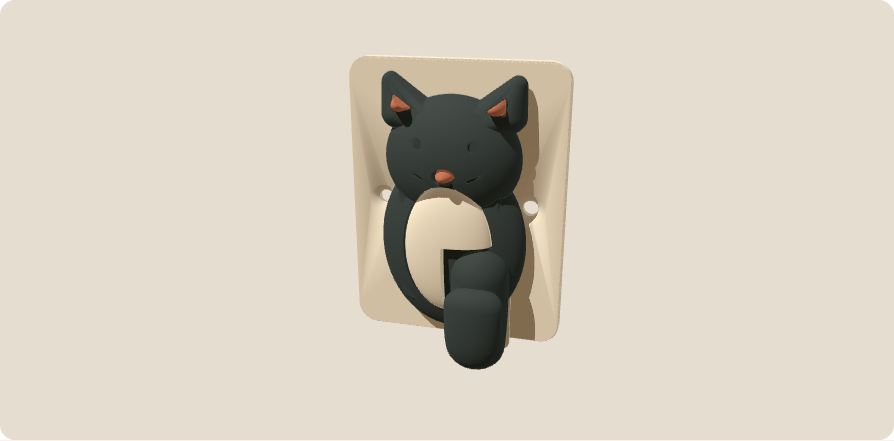
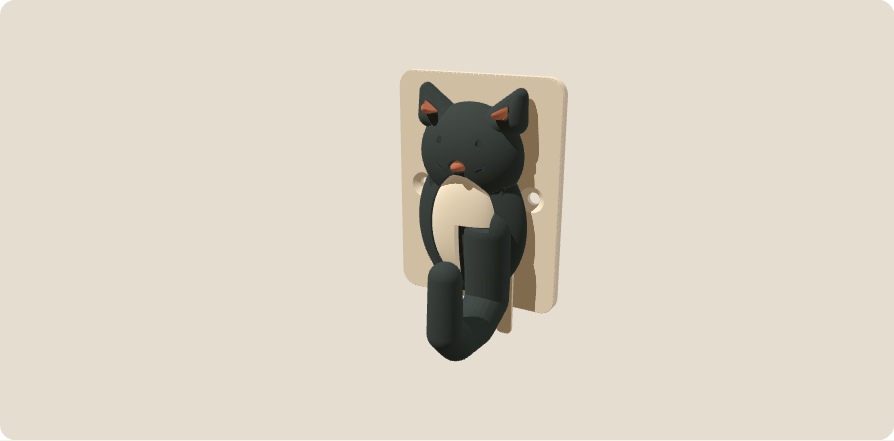
Make pet hooks usable with clear cradles, tapered tips and accessible releases

Changed region(s): [[0.3926, 0.1179, 0.6644, 0.8549]]

diff --git a/src/hooks/geometry.js b/src/hooks/geometry.js
@@ -10,7 +10,7 @@ export function generateHooks(module,input,resources={}){const lookup=resources.
  for(let index=0;index<drawings.length;index++){const{id,art,profile,scale,cx,cy}=drawings[index],x=(index-(drawings.length-1)/2)*pitch;
  // A full-depth spine connects the short hook root to both retaining shoulders.
  const ellipsoid=([x,y,rx,ry,z])=>own(M.sphere(1,64).scale([rx*scale,ry*scale,z]).translate([(x-cx)*scale,(y-cy)*scale,6.4]));const sculpture=art.mass?own(M.union([...art.mass.map(ellipsoid),...(art.massHulls||[]).map(points=>own(M.hull(points.map(ellipsoid))))])):own(relief(profile,6,3).translate([0,0,8]));let core=own(bevel(own(K.round(30,58,5)),5.6,1).translate([0,0,6.4]).add(sculpture));
- const hx=((art.hook.x||0)-cx)*scale,width=art.hook.width||20,reach=p.reach,points=Array.from({length:17},(_,i)=>{const t=i/16,u=1-t,y=u*u*u*-18+3*u*u*t*-44+3*u*t*t*-44+t*t*t*-24,z=u*u*u*12+3*u*u*t*12+3*u*t*t*(reach-5.5)+t*t*t*(reach-5.5),rad=9*(1-t)+5.5*t;return[hx,y,z,rad];}),balls=points.map(([bx,by,bz,rad])=>own(M.sphere(1,32).scale([width/2,rad,rad]).translate([bx,by,bz])));
+ const hx=((art.hook.x||0)-cx)*scale,width=art.hook.width||20,reach=p.reach,points=[[hx,-12,12,9],[hx,-37,12,8],[hx,-43,22,7.5],[hx,-43,reach-13,7],[hx,-37,reach-5.5,6],[hx,-18,reach-5.5,5.5]],balls=points.map(([bx,by,bz,rad],i)=>own(M.sphere(1,32).scale([width/2+(5.5-width/2)*i/(points.length-1),rad,rad]).translate([bx,by,bz])));
  core=own(core.add(own(M.union(balls.slice(1).map((b,i)=>own(M.hull([balls[i],b])))))));
  core=own(core.subtract(own(M.cube([500,500,106.4]).translate([-250,-250,-100]))));
  const hookKeepOut=own(C.square([width+3,100],true).translate([hx,-59]));
@@ -31,14 +31,14 @@ export function generateHooks(module,input,resources={}){const lookup=resources.
  if(p.layout==='rail'&&index>0)for(const y of[-22,22])plate=own(plate.subtract(own(K.round(12+2*p.clearance,12+2*p.clearance,2).extrude(2.3).translate([-moduleWidth/2,y,-.1]))));
  const screwXs=[-moduleWidth/2+10,moduleWidth/2-10];for(const sx of screwXs){plate=own(plate.subtract(own(C.circle(2.3,48).extrude(6).translate([sx,0,-1]))).subtract(own(M.cylinder(2,2.3,4.6,48).translate([sx,0,2]))));}
  if(p.mount==='pads')for(const sx of[-moduleWidth/4,moduleWidth/4])plate=own(plate.subtract(own(K.round(Math.min(22,moduleWidth/2-14),Math.min(54,moduleHeight-14),3).extrude(1).translate([sx,0,-.2]))));
- const rail=cleat(),leaf=own(K.round(8,29,2).extrude(1.2).translate([13.5,-30,4.8])),anchor=own(K.round(8,4,1).extrude(2.1).translate([13.5,-16.5,3.9])),bump=own(M.sphere(1,32).scale([2.8,1.7,1.1]).translate([13.5,-23,6]));plate=own(M.union([plate,rail,leaf,anchor,bump]));
- const mount=finishPart('wall-mount-'+(index+1),plate,x,1);mount.role='hook-mount';if(p.colourMode==='ams')mount.colourGroup=mount.name;mounts.push(mount);measurements.push({id,pitch,moduleWidth,height:moduleHeight,reach:reach+6.5,colourPieces:ownParts.length,screwHoleDiameter:4.6,bodyAssembly:body.assembly});
+ const leafBottom=-moduleHeight/2-10,leafTop=1,rail=cleat(),leaf=own(K.round(6,leafTop-leafBottom,2).extrude(1.2).translate([13.5,(leafTop+leafBottom)/2,4.8])),anchor=own(K.round(8,4,1).extrude(2.1).translate([13.5,0,3.9])),bump=own(M.sphere(1,32).scale([2.8,1.7,1.1]).translate([13.5,-23,6]));plate=own(M.union([plate,rail,leaf,anchor,bump]));
+ const mount=finishPart('wall-mount-'+(index+1),plate,x,1);mount.role='hook-mount';if(p.colourMode==='ams')mount.colourGroup=mount.name;mounts.push(mount);measurements.push({id,pitch,moduleWidth,height:moduleHeight,reach:reach,minimumThroatDepth:reach-33,releaseTabExposure:10,colourPieces:ownParts.length,screwHoleDiameter:4.6,bodyAssembly:body.assembly});
  }
  // Keep an entire strip clear for a variable-depth AMS prime tower.
  if(p.colourMode==='ams'){const groups=new Map();for(const part of parts){if(!groups.has(part.colourGroup))groups.set(part.colourGroup,[]);groups.get(part.colourGroup).push(part);}for(const group of groups.values()){const first=group[0];if(first.printSize[0]<=printerSpec(p).bed-68)continue;for(const part of group){const v=part.mesh.vertices;for(let i=0;i<v.length;i+=3){const x=v[i];v[i]=-v[i+1];v[i+1]=x;}part.rotation=[Math.PI/2,0,-Math.PI/2];const b=part.bounds;part.bounds={min:[-b.max[1],b.min[0],b.min[2]],max:[-b.min[1],b.max[0],b.max[2]]};part.printSize=[part.printSize[1],part.printSize[0],part.printSize[2]];}}}
  let offset=0;const placed=new Map();for(const part of parts){if(part.colourGroup&&placed.has(part.colourGroup)){Object.assign(part,placed.get(part.colourGroup));continue;}const pos={x:offset-part.bounds.min[0],y:-part.bounds.min[1]};Object.assign(part,pos);if(part.colourGroup)placed.set(part.colourGroup,pos);offset+=part.printSize[0]+10;}
  const amin=[Infinity,Infinity,Infinity],amax=[-Infinity,-Infinity,-Infinity];for(const part of parts){const v=part.mesh.vertices;for(let i=0;i<v.length;i+=3){const at=part.rotation[2]?[v[i+1]+part.assembly[0],-v[i+2]+part.assembly[1],-v[i]+part.assembly[2]]:[v[i]+part.assembly[0],-v[i+2]+part.assembly[1],v[i+1]+part.assembly[2]];for(let a=0;a<3;a++){amin[a]=Math.min(amin[a],at[a]);amax[a]=Math.max(amax[a],at[a]);}}}const dimensions=amax.map((v,a)=>v-amin[a]);
  const references=p.exportSet==='complete'?[]:parts.filter(part=>p.exportSet==='mounts'?part.role!=='hook-mount':part.role==='hook-mount'),exported=parts.filter(part=>!references.includes(part));
- return{settings:p,parts:exported,references,width:dimensions[0],depth:dimensions[1],height:dimensions[2],printPlates:true,productFit:{hooks:measurements,physicalCores:p.designs.length,mountType:'closed-top-dovetail-with-release-leaf',mountClearance:p.clearance,leafTravel:.8},previewDirection:[.8,-3,1.1],...(p.colourMode==='ams'?{filamentColours:p.colours}:{}),note:(p.exportSet==='complete'?'':p.exportSet==='mounts'?'WALL MOUNTS ONLY: hooks are preview context and excluded from downloads. ':'HOOKS ONLY: wall mounts are preview context and excluded from downloads. ')+p.designs.length+' compact hook'+(p.designs.length>1?'s':'')+'. '+(p.colourMode==='separate'?'Print the colour inserts separately and glue them into their matching recesses.':p.colourMode==='ams'?'AMS colours are assigned in the grouped 3MF objects.':'One-colour hook cores.')+' Each mount fixes independently to the wall. Press the lower release tab and lift a hook to remove it.',guide:'COMPACT WALL HOOKS · '+p.exportSet.toUpperCase()+' EXPORT\n'+p.designs.map(id=>lookup(id).name).join(', ')+'\n\nPrint the supplied flat-backed parts in their prepared orientations. AMS projects turn wider parts within the plate to leave a clear side strip for the prime tower. Automatic normal supports start on for the hook underside and retaining leaf; remove them from the mount channel and spring clearance. The continuous core carries the hook load; decorative inserts are not structural. '+(p.colourMode==='separate'?'Print each numbered insert in your selected colour. Dry-fit its matching recess, then apply a small amount of suitable plastic adhesive. Keep glue away from the mount and release leaf.':p.colourMode==='ams'?'Keep each core and its colour volumes together as one multi-part object. The 3MF assigns the four selected filament slots.':'Print all hook cores in one filament colour.')+'\n\nMOUNTING\nFor coats, use both 4.6 mm fixing holes on every module with suitable M4 screws and wall anchors. The countersinks accept countersunk screw heads up to 9.2 mm diameter; choose screw length for your wall. '+(p.mount==='pads'?'Adhesive pads are an alternative for lighter items, not the coat-mounting option. Optional adhesive recesses are 0.8 mm deep; choose pads compatible with your wall and follow their mounting instructions. Screw holes remain available.':'Screw mounting is selected.')+' Rail modules have integral alignment laps; wall-fix each module rather than hanging later modules from a join. Slide each hook down over the matching dovetail until the lower leaf engages. Press the exposed lower tab toward the wall and lift to release. No separate locking pin is used.\n\nThe complete project uses the selected Bambu printer, 0.4 mm nozzle, 0.2 mm layers and Generic PLA with reinforced 30% gyroid, four walls and five top/bottom layers. Confirm filament, wall fixing and available plate space in your slicer.'};
+ return{settings:p,parts:exported,references,width:dimensions[0],depth:dimensions[1],height:dimensions[2],printPlates:true,productFit:{hooks:measurements,physicalCores:p.designs.length,mountType:'closed-top-dovetail-with-release-leaf',mountClearance:p.clearance,leafTravel:.8},previewDirection:[1.7,-3,1.1],...(p.colourMode==='ams'?{filamentColours:p.colours}:{}),note:(p.exportSet==='complete'?'':p.exportSet==='mounts'?'WALL MOUNTS ONLY: hooks are preview context and excluded from downloads. ':'HOOKS ONLY: wall mounts are preview context and excluded from downloads. ')+p.designs.length+' compact hook'+(p.designs.length>1?'s':'')+'. At least '+(p.reach-33)+' mm of clear hanging depth, with a rounded 11 mm tip. '+(p.colourMode==='separate'?'Print the colour inserts separately and glue them into their matching recesses.':p.colourMode==='ams'?'AMS colours are assigned in the grouped 3MF objects.':'One-colour hook cores.')+' Each mount fixes independently to the wall. Press the lower release tab and lift a hook to remove it.',guide:'COMPACT WALL HOOKS · '+p.exportSet.toUpperCase()+' EXPORT\n'+p.designs.map(id=>lookup(id).name).join(', ')+'\n\nPrint the supplied flat-backed parts in their prepared orientations. AMS projects turn wider parts within the plate to leave a clear side strip for the prime tower. Automatic normal supports start on for the hook underside and retaining leaf; remove them from the mount channel and spring clearance. The continuous core carries the hook load; decorative inserts are not structural. '+(p.colourMode==='separate'?'Print each numbered insert in your selected colour. Dry-fit its matching recess, then apply a small amount of suitable plastic adhesive. Keep glue away from the mount and release leaf.':p.colourMode==='ams'?'Keep each core and its colour volumes together as one multi-part object. The 3MF assigns the four selected filament slots.':'Print all hook cores in one filament colour.')+'\n\nMOUNTING\nFor coats, use both 4.6 mm fixing holes on every module with suitable M4 screws and wall anchors. The countersinks accept countersunk screw heads up to 9.2 mm diameter; choose screw length for your wall. '+(p.mount==='pads'?'Adhesive pads are an alternative for lighter items, not the coat-mounting option. Optional adhesive recesses are 0.8 mm deep; choose pads compatible with your wall and follow their mounting instructions. Screw holes remain available.':'Screw mounting is selected.')+' Rail modules have integral alignment laps; wall-fix each module rather than hanging later modules from a join. Slide each hook down over the matching dovetail until the lower leaf engages. Press the exposed lower tab toward the wall and lift to release. No separate locking pin is used.\n\nThe complete project uses the selected Bambu printer, 0.4 mm nozzle, 0.2 mm layers and Generic PLA with reinforced 30% gyroid, four walls and five top/bottom layers. Confirm filament, wall fixing and available plate space in your slicer.'};
  }finally{K.dispose();}
 }

diff --git a/test/hooks.test.js b/test/hooks.test.js
@@ -2,10 +2,12 @@ import test from'node:test';import assert from'node:assert/strict';import init f
 const m=await init();m.setup();const asSolid=p=>new m.Manifold(new m.Mesh({numProp:3,vertProperties:p.mesh.vertices,triVerts:p.mesh.faces})),assembled=p=>{const raw=asSolid(p),zTurn=raw.rotate([0,0,p.rotation[2]*180/Math.PI]),turned=zTurn.rotate([p.rotation[0]*180/Math.PI,0,0]),s=turned.translate(p.assembly);raw.delete();zTurn.delete();turned.delete();return s;};
 const categories=hookCategories.filter(c=>!process.env.HOOK_CATEGORY||c.category.id===process.env.HOOK_CATEGORY);
 for(const mod of categories)test(mod.category.name+': five distinct connected designs, both colour modes and printers',()=>{assert.equal(mod.category.designs.length,5);const unique=new Set();for(const[id]of mod.category.designs)for(const colourMode of['separate','ams','single'])for(const printer of['a1-mini','256']){const model=generateHooks(m,{designs:[id],colourMode,printer});assert.equal(model.productFit.physicalCores,1);if(colourMode==='separate'&&printer==='a1-mini')unique.add(Buffer.from(model.parts[0].mesh.vertices.buffer).toString('base64'));for(const part of model.parts){const s=asSolid(part),pieces=s.decompose();assert.equal(s.status(),'NoError',part.name);assert.ok(s.volume()>0,part.name);assert.equal(pieces.length,1,part.name);assert.ok(part.printSize.every(v=>v<=(printer==='256'?256:170)));if(colourMode!=='ams')assert.ok(Math.abs(s.boundingBox().min[2])<.00001);pieces.forEach(p=>p.delete());s.delete();}if(colourMode==='separate'){const core=assembled(model.parts[0]),mount=assembled(model.parts.at(-1)),hit=core.intersect(mount);assert.ok(Math.abs(hit.volume())<.005,id+' mount collision');for(const p of model.parts.slice(1,-1)){const insert=assembled(p),contact=core.intersect(insert);assert.ok(Math.abs(contact.volume())<.005,p.name+' pocket collision');const towardsWall=insert.translate([0,.1,0]),seat=core.intersect(towardsWall);assert.ok(seat.volume()>.005,p.name+' must seat against core');towardsWall.delete();seat.delete();insert.delete();contact.delete();}const lifted=core.translate([0,0,2.5]),catchHit=lifted.intersect(mount);assert.ok(catchHit.volume()>.01,id+' retaining leaf must stop accidental lift');[core,mount,hit,lifted,catchHit].forEach(s=>s.delete());}}assert.equal(unique.size,5);});
-test('one to five mixed hooks have independently fixed modules with clear mating laps',()=>{for(const count of[1,2,3,4,5]){const model=generateHooks(m,{designs:Array.from({length:count},(_,i)=>hookDesigns[i%hookDesigns.length].id),mount:'pads'}),mounts=model.parts.filter(p=>p.role==='hook-mount');assert.equal(mounts.length,count);for(let i=1;i<mounts.length;i++){const a=assembled(mounts[i-1]),b=assembled(mounts[i]),hit=a.intersect(b);assert.ok(Math.abs(hit.volume())<.005,'rail lap overlap');[a,b,hit].forEach(s=>s.delete());}const layout=productPlates(model.parts.map((p,i)=>({...p,id:i+1})),model.settings);for(const plate of layout.plates){const ids=plate.items.map(id=>model.parts[id-1].extruder);assert.equal(new Set(ids).size,1,'non-AMS plates must contain one colour');}}});
+test('one to five mixed hooks have independently fixed modules with clear mating laps',()=>{for(const count of[1,2,3,4,5]){const model=generateHooks(m,{designs:Array.from({length:count},(_,i)=>categories[0].category.designs[i%5][0]),mount:'pads'}),mounts=model.parts.filter(p=>p.role==='hook-mount');assert.equal(mounts.length,count);for(let i=1;i<mounts.length;i++){const a=assembled(mounts[i-1]),b=assembled(mounts[i]),hit=a.intersect(b);assert.ok(Math.abs(hit.volume())<.005,'rail lap overlap');[a,b,hit].forEach(s=>s.delete());}const layout=productPlates(model.parts.map((p,i)=>({...p,id:i+1})),model.settings);for(const plate of layout.plates){const ids=plate.items.map(id=>model.parts[id-1].extruder);assert.equal(new Set(ids).size,1,'non-AMS plates must contain one colour');}}});
 function unzip(chunks){const b=Buffer.concat(chunks.map(c=>Buffer.from(c))),files={};let i=0;while(b.readUInt32LE(i)===0x04034b50){const n=b.readUInt16LE(i+26),extra=b.readUInt16LE(i+28),size=b.readUInt32LE(i+18),start=i+30+n+extra;files[b.subarray(i+30,i+30+n).toString()]=b.subarray(start,start+size);i=start+size;}return files;}
 test('AMS assigns four slots, groups each hook and leaves prime-tower space; all profiles reinforced',()=>{for(const printer of['a1-mini','256']){const model=generateHooks(m,{colourMode:'ams',printer}),files=unzip(solid3mf(model)),profile=JSON.parse(files['Metadata/project_settings.config']),xml=files['3D/3dmodel.model'].toString();for(const[key,value]of Object.entries(printProfile('hooks')))assert.equal(profile[key],value);assert.equal(profile.filament_colour.length,4);assert.equal(profile.top_shell_layers,'5');assert.equal(profile.wall_loops,'4');assert.equal(profile.sparse_infill_density,'30%');assert.equal(profile.enable_support,'1');assert.equal((xml.match(/<item /g)||[]).length,2);assert.match(files['Metadata/model_settings.config'].toString(),/extruder" value="4"/);}});
 test('invalid counts, dimensions, selections and unsafe text are rejected',()=>{for(const p of[{designs:[]},{designs:Array(6).fill('walkies-pack')},{designs:['missing']},{height:20},{reach:60},{spacing:0},{clearance:2},{label:'a\nb'},{colourMode:'bad'}])assert.throws(()=>validateHooks(p));});
 // Float32 intersections can contain zero-volume coplanar shards; these are not physical components.
-test('AMS colour volumes unite into connected physical objects with a bed contact',()=>{const model=generateHooks(m,{colourMode:'ams',designs:hookDesigns.slice(0,5).map(d=>d.id)}),groups=new Map();for(const p of model.parts){if(!groups.has(p.colourGroup))groups.set(p.colourGroup,[]);groups.get(p.colourGroup).push(p);}for(const[name,parts]of groups){const solids=parts.map(asSolid),combined=m.Manifold.union(solids),pieces=combined.decompose();const physical=pieces.filter(s=>Math.abs(s.volume())>1e-5);assert.equal(physical.length,1,name+' must print as one physical object');assert.ok(physical[0].volume()>0);assert.ok(Math.abs(combined.boundingBox().min[2])<.00001);[...solids,combined,...pieces].forEach(s=>s.delete());}});
-test('prime-tower rotations preserve the real wall-mount assembly',()=>{const ids=hookDesigns.slice(0,5).map(d=>d.id),a=generateHooks(m,{designs:ids}),b=generateHooks(m,{designs:ids,colourMode:'ams'}),mounts=a.parts.filter(p=>p.role==='hook-mount');for(const p of mounts){const q=b.parts.find(q=>q.name===p.name),s=assembled(p),t=assembled(q),lost=s.subtract(t),added=t.subtract(s);assert.ok(Math.abs(lost.volume())<.02,p.name);assert.ok(Math.abs(added.volume())<.02,p.name);[s,t,lost,added].forEach(x=>x.delete());}});
+test('AMS colour volumes unite into connected physical objects with a bed contact',()=>{const model=generateHooks(m,{colourMode:'ams',designs:categories[0].category.designs.map(([id])=>id)}),groups=new Map();for(const p of model.parts){if(!groups.has(p.colourGroup))groups.set(p.colourGroup,[]);groups.get(p.colourGroup).push(p);}for(const[name,parts]of groups){const solids=parts.map(asSolid),combined=m.Manifold.union(solids),pieces=combined.decompose();const physical=pieces.filter(s=>s.volume()>1e-5);assert.equal(physical.length,1,name+' must print as one physical object');assert.ok(physical[0].volume()>0);assert.ok(Math.abs(combined.boundingBox().min[2])<.00001);[...solids,combined,...pieces].forEach(s=>s.delete());}});
+test('prime-tower rotations preserve the real wall-mount assembly',()=>{const ids=categories[0].category.designs.map(([id])=>id),a=generateHooks(m,{designs:ids}),b=generateHooks(m,{designs:ids,colourMode:'ams'}),mounts=a.parts.filter(p=>p.role==='hook-mount');for(const p of mounts){const q=b.parts.find(q=>q.name===p.name),s=assembled(p),t=assembled(q),lost=s.subtract(t),added=t.subtract(s);assert.ok(Math.abs(lost.volume())<.02,p.name);assert.ok(Math.abs(added.volume())<.02,p.name);[s,t,lost,added].forEach(x=>x.delete());}});
+
+test('coat loops have a clear 10 mm insertion path and an upturned retaining lip at minimum projection',()=>{for(const[id]of categories[0].category.designs)for(const height of[65,100]){const model=generateHooks(m,{designs:[id],height,pitch:160,reach:44,colourMode:'single'}),part=model.parts[0],raw=asSolid(part),core=raw.translate([0,0,-part.assembly[1]]);const positions=part.mesh.vertices;let tipX=0,front=-Infinity;for(let i=0;i<positions.length;i+=3)if(positions[i+2]>front){front=positions[i+2];tipX=positions[i];}for(const y of[5,0,-5,-10,-15,-20,-24]){const probe=m.Manifold.cylinder(30,5,5,48).rotate([0,90,0]).translate([tipX-15,y,27.5]),hit=core.intersect(probe);assert.ok(Math.abs(hit.volume())<.005,id+' must admit a 10 mm coat loop at '+y+' mm');probe.delete();hit.delete();}for(const y of[-6,-12,-18,-23]){const outer=m.Manifold.cylinder(3,12,12,64),inner=m.Manifold.cylinder(5,9,9,64).translate([0,0,-1]),annulus=outer.subtract(inner),ring=annulus.rotate([90,0,0]).translate([tipX,y+1.5,38.5]),hit=core.intersect(ring);assert.ok(Math.abs(hit.volume())<.005,id+' must accept an 18 mm internal-diameter keyring');[outer,inner,annulus,ring,hit].forEach(s=>s.delete());}assert.ok(model.productFit.hooks[0].releaseTabExposure>=10);raw.delete();core.delete();}});

diff --git a/hooks/index.html b/hooks/index.html
@@ -1,1 +1,1 @@
-<!doctype html><html lang="en"><head><meta charset="UTF-8"><meta name="viewport" content="width=device-width,initial-scale=1"><title>Character hooks · Design Studio</title></head><body data-page="hooks"><header><a class="brand" href="../">Design Studio</a><nav aria-label="Main navigation"><a href="../">Home</a><a href="./" aria-current="page">Hooks</a></nav></header><main><section class="text-heading"><p class="eyebrow">A LITTLE CHARACTER / HOOKS</p><h1>Make room<br>for a little character.</h1><p>Choose one hook or build a row of five. Mix designs on shared wall mounts, print colour pieces separately, or choose AMS.</p><p id="catalogue-count" class="caption"></p><p class="privacy">Made in your browser. A1 mini by default, with an optional Bambu A1 size.</p></section><section id="studio"><div class="section-title"><h2>Build your hook collection.</h2><button id="reset" class="quiet">Reset design</button></div><div class="text-studio"><div class="controls"><fieldset><legend>Choose your hooks</legend><label>Browse category<select id="category"></select></label><label>Design<select id="design"></select></label><div id="hook-gallery" class="ornament-gallery"></div><button id="use-design" class="secondary">Use this design for all hooks</button><label>Number of hooks<select id="hook-count"><option>1</option><option>2</option><option>3</option><option>4</option><option>5</option></select></label><div id="hook-slots"></div></fieldset><fieldset><legend>Size &amp; mounting</legend><div id="printer-size-control"></div><label>Design height (mm)<input id="height" type="number" min="65" max="100" step="1" value="76"></label><label>Hook reach (mm)<input id="reach" type="number" min="20" max="30" step="1" value="26"></label><label>Mount spacing (mm)<input id="pitch" type="number" min="80" max="160" step="1" value="114"></label><label>Wall mounts<select id="layout"><option value="rail">Shared modular rail</option><option value="individual">Individual wall plates</option></select></label><label>Fixing options<select id="mount"><option value="screws">Screw mounting</option><option value="pads">Screws + pad recesses · lighter items</option></select></label><label>Fit clearance (mm)<input id="clearance" type="number" min="0.2" max="0.5" step="0.05" value="0.3"></label></fieldset><fieldset><legend>Colour &amp; printing</legend><label>Parts to download<select id="exportSet"><option value="complete">Hooks + wall mounts</option><option value="hooks">Hooks only</option><option value="mounts">Generic wall mounts only</option></select></label><label>Colour assembly<select id="colour-mode"><option value="separate">Separate colour pieces · no AMS</option><option value="ams">Multi-colour · AMS</option><option value="single">Single-colour hook cores</option></select></label><div id="hook-colours"></div><label id="name-field" hidden>Name or wording<input id="label" maxlength="12" value="CHARLIE"></label><p id="colour-help" class="caption"></p><p id="process-policy" class="caption"></p></fieldset></div><div class="workspace"><div class="preview-toolbar"><span>YOUR HOOKS · ACTUAL PRINTABLE GEOMETRY</span></div><div class="desk-views"><label class="check"><input id="parts-view" type="checkbox">Printing orientations</label><button id="top-view" class="quiet">Top view</button><button id="reset-view" class="quiet">Reset view</button></div><div id="model-preview" class="model-preview"><canvas id="model-canvas" tabindex="0" aria-label="Your hooks. Drag or use arrow keys to rotate; scroll to zoom."></canvas></div><p class="caption">Preview and downloads use the same geometry.</p><p id="feedback" role="status" aria-live="polite">Preparing your hooks…</p><p id="assembly-note" class="desk-notice"></p><div class="estimate"><div><small>ASSEMBLED SIZE</small><strong id="dimensions">—</strong></div><div><small>PRINTABLE PARTS</small><strong id="part-count">—</strong></div></div><p id="bed-status" class="caption"></p><details><summary>Printable part sizes</summary><ul id="print-sizes" class="caption"></ul></details><div class="export"><button id="stl" disabled>Download STL parts ZIP</button><button id="three-mf" class="secondary" disabled>Download Bambu 3MF</button><button id="print-guide" class="quiet" disabled>Assembly &amp; colour guide</button></div><button id="cancel" class="quiet" hidden>Cancel</button><p id="export-status" role="status"></p></div></div></section></main><footer><a href="../">Design Studio</a> · Useful things with a little character.</footer><script type="module" src="../src/hooks/studio.js"></script></body></html>
+<!doctype html><html lang="en"><head><meta charset="UTF-8"><meta name="viewport" content="width=device-width,initial-scale=1"><title>Character hooks · Design Studio</title></head><body data-page="hooks"><header><a class="brand" href="../">Design Studio</a><nav aria-label="Main navigation"><a href="../">Home</a><a href="./" aria-current="page">Hooks</a></nav></header><main><section class="text-heading"><p class="eyebrow">A LITTLE CHARACTER / HOOKS</p><h1>Make room<br>for a little character.</h1><p>Choose one hook or build a row of five. Mix designs on shared wall mounts, print colour pieces separately, or choose AMS.</p><p id="catalogue-count" class="caption"></p><p class="privacy">Made in your browser. A1 mini by default, with an optional Bambu A1 size.</p></section><section id="studio"><div class="section-title"><h2>Build your hook collection.</h2><button id="reset" class="quiet">Reset design</button></div><div class="text-studio"><div class="controls"><fieldset><legend>Choose your hooks</legend><label>Browse category<select id="category"></select></label><label>Design<select id="design"></select></label><div id="hook-gallery" class="ornament-gallery"></div><button id="use-design" class="secondary">Use this design for all hooks</button><label>Number of hooks<select id="hook-count"><option>1</option><option>2</option><option>3</option><option>4</option><option>5</option></select></label><div id="hook-slots"></div></fieldset><fieldset><legend>Size &amp; mounting</legend><div id="printer-size-control"></div><label>Design height (mm)<input id="height" type="number" min="65" max="100" step="1" value="76"></label><label>Hook projection (mm)<input id="reach" type="number" min="44" max="56" step="1" value="48"></label><label>Mount spacing (mm)<input id="pitch" type="number" min="80" max="160" step="1" value="114"></label><label>Wall mounts<select id="layout"><option value="rail">Shared modular rail</option><option value="individual">Individual wall plates</option></select></label><label>Fixing options<select id="mount"><option value="screws">Screw mounting</option><option value="pads">Screws + pad recesses · lighter items</option></select></label><label>Fit clearance (mm)<input id="clearance" type="number" min="0.2" max="0.5" step="0.05" value="0.3"></label></fieldset><fieldset><legend>Colour &amp; printing</legend><label>Parts to download<select id="exportSet"><option value="complete">Hooks + wall mounts</option><option value="hooks">Hooks only</option><option value="mounts">Generic wall mounts only</option></select></label><label>Colour assembly<select id="colour-mode"><option value="separate">Separate colour pieces · no AMS</option><option value="ams">Multi-colour · AMS</option><option value="single">Single-colour hook cores</option></select></label><div id="hook-colours"></div><label id="name-field" hidden>Name or wording<input id="label" maxlength="12" value="CHARLIE"></label><p id="colour-help" class="caption"></p><p id="process-policy" class="caption"></p></fieldset></div><div class="workspace"><div class="preview-toolbar"><span>YOUR HOOKS · ACTUAL PRINTABLE GEOMETRY</span></div><div class="desk-views"><label class="check"><input id="parts-view" type="checkbox">Printing orientations</label><button id="top-view" class="quiet">Top view</button><button id="reset-view" class="quiet">Reset view</button></div><div id="model-preview" class="model-preview"><canvas id="model-canvas" tabindex="0" aria-label="Your hooks. Drag or use arrow keys to rotate; scroll to zoom."></canvas></div><p class="caption">Preview and downloads use the same geometry.</p><p id="feedback" role="status" aria-live="polite">Preparing your hooks…</p><p id="assembly-note" class="desk-notice"></p><div class="estimate"><div><small>ASSEMBLED SIZE</small><strong id="dimensions">—</strong></div><div><small>PRINTABLE PARTS</small><strong id="part-count">—</strong></div></div><p id="bed-status" class="caption"></p><details><summary>Printable part sizes</summary><ul id="print-sizes" class="caption"></ul></details><div class="export"><button id="stl" disabled>Download STL parts ZIP</button><button id="three-mf" class="secondary" disabled>Download Bambu 3MF</button><button id="print-guide" class="quiet" disabled>Assembly &amp; colour guide</button></div><button id="cancel" class="quiet" hidden>Cancel</button><p id="export-status" role="status"></p></div></div></section></main><footer><a href="../">Design Studio</a> · Useful things with a little character.</footer><script type="module" src="../src/hooks/studio.js"></script></body></html>

diff --git a/src/desk-preview.js b/src/desk-preview.js
@@ -10,7 +10,7 @@ export function createDeskPreview(canvas){
  const render=()=>renderer.render(scene,camera);
  function fit(){const box=new THREE.Box3().setFromObject(group);if(box.isEmpty())return;const size=box.getSize(new THREE.Vector3()),centre=box.getCenter(new THREE.Vector3()),plant=model?.settings.kind==='coaster-plant',productDirection=model?.previewDirection||[1.5,-.8,.3],flatHex=view==='angle'&&model?.settings.kind==='coaster'&&model?.settings.coasterShape==='hexagon',direction=new THREE.Vector3((['top','bottom'].includes(view)||flatHex)?0:model?.productFit?productDirection[0]:plant?.5:.85,(['top','bottom'].includes(view)||flatHex)?-.0001:model?.productFit?productDirection[1]:plant?-Math.sqrt(3)/2:-1.4,view==='bottom'?-1:model?.productFit?productDirection[2]:plant?.4:1).normalize();group.position.sub(centre);ground.position.z=-size.z/2-.1;const shadowSize=Math.max(size.x,size.y,size.z);Object.assign(light.shadow.camera,{left:-shadowSize,right:shadowSize,top:shadowSize,bottom:-shadowSize,near:1,far:3000});light.shadow.camera.updateProjectionMatrix();let distance=Math.max(size.x/Math.max(camera.aspect,.2),size.y,size.z)*2.6;if(plant||model?.productFit){const right=new THREE.Vector3(0,0,1).cross(direction).normalize(),up=direction.clone().cross(right).normalize(),extent=[0,0,0];group.updateMatrixWorld(true);const v=new THREE.Vector3();for(const child of group.children){const positions=child.geometry?.attributes.position;if(!positions)continue;for(let i=0;i<positions.count;i++){v.fromBufferAttribute(positions,i).applyMatrix4(child.matrixWorld);for(const [j,axis]of [right,up,direction].entries())extent[j]=Math.max(extent[j],Math.abs(v.dot(axis)));}}const tan=Math.tan(camera.fov*Math.PI/360);distance=Math.max(extent[0]/(tan*camera.aspect),extent[1]/tan)*1.1+extent[2];}controls.target.set(0,0,0);camera.position.copy(direction.multiplyScalar(distance));camera.lookAt(0,0,0);controls.update();render();}
  function paint(){for(const child of group.children){child.geometry.dispose();child.material.dispose();}scene.remove(group);group=new THREE.Group();scene.add(group);if(!model){ground.visible=false;renderer.shadowMap.enabled=false;render();return;}
-  const plant=model.settings.kind==='coaster-plant',smooth=plant||!!model.productFit;renderer.shadowMap.enabled=smooth;light.castShadow=smooth;ground.visible=(plant||model.settings.kind==='ornament')&&!parts;hemisphere.intensity=plant?1.25:2.5;light.position.set(...(plant?[-220,-280,430]:[-100,-150,230]));const palette=deskPalettes[model.settings.palette];for(const part of [...model.parts,...(!parts?(model.references||model.coasterFit?.references?.flatMap(p=>p.veins?[p,p.veins]:[p])||[]):[])]){if(!parts&&part.assemblyHidden)continue;const g=new THREE.BufferGeometry();g.setAttribute('position',new THREE.BufferAttribute(part.mesh.vertices,3));g.setIndex(new THREE.BufferAttribute(part.mesh.faces,1));const geometry=smooth?toCreasedNormals(g,Math.PI/4):g.toNonIndexed();g.dispose();if(!smooth)geometry.computeVertexNormals();let cavityColours=false;if(plant&&part.role==='reference-leaf'){const slot=model.coasterFit.plant.slots.find(s=>'display-leaf-'+s.name===part.name);if(slot){const pos=geometry.attributes.position,colour=new Float32Array(pos.count*3),face=model.settings.coasterSurface==='flat'?model.settings.height:model.settings.height-model.settings.coasterRim;for(let i=0;i<pos.count;i++){const z=(pos.getX(i)-slot.x)*slot.hookNormal[0]+(pos.getY(i)-slot.y)*slot.hookNormal[1]+(pos.getZ(i)-slot.z)*slot.hookNormal[2]+model.settings.height/2,k=1-Math.min(.45,Math.max(0,face-z)*.85);colour[i*3]=colour[i*3+1]=colour[i*3+2]=k;}geometry.setAttribute('color',new THREE.BufferAttribute(colour,3));cavityColours=true;}}const object=new THREE.Mesh(geometry,new THREE.MeshStandardMaterial({vertexColors:cavityColours,color:part.paletteRole?palette[part.paletteRole]:part.colour|| (part.role==='drawer-sheet'?(model.settings.sheetColour||'#68bfc7'):['reference-leaf','plant-stem','plant-trunk','plant-branch'].includes(part.role)?'#47674d':part.role==='plant-plate'?'#45433a':['pill-lid','drawer','inner-box','lid','screw-lid','storage-lid','home-lid','catch-tray','draining-platform','base-cover','cupboard-door','door-pull','door-splice'].includes(part.role)?palette.detail:palette.body),roughness:.85}));
+  const plant=model.settings.kind==='coaster-plant',smooth=plant||!!model.productFit;renderer.shadowMap.enabled=smooth;light.castShadow=smooth;ground.visible=(plant||model.settings.kind==='ornament')&&!parts;hemisphere.intensity=plant?1.25:2.5;light.position.set(...(plant?[-220,-280,430]:[-100,-150,230]));const palette=deskPalettes[model.settings.palette];for(const part of [...model.parts,...(!parts?(model.references||model.coasterFit?.references?.flatMap(p=>p.veins?[p,p.veins]:[p])||[]):[])]){if(!parts&&part.assemblyHidden)continue;const g=new THREE.BufferGeometry();g.setAttribute('position',new THREE.BufferAttribute(part.mesh.vertices,3));g.setIndex(new THREE.BufferAttribute(part.mesh.faces,1));const geometry=smooth?toCreasedNormals(g,model.settings.kind==='hooks'?Math.PI/12:Math.PI/4):g.toNonIndexed();g.dispose();if(!smooth)geometry.computeVertexNormals();let cavityColours=false;if(plant&&part.role==='reference-leaf'){const slot=model.coasterFit.plant.slots.find(s=>'display-leaf-'+s.name===part.name);if(slot){const pos=geometry.attributes.position,colour=new Float32Array(pos.count*3),face=model.settings.coasterSurface==='flat'?model.settings.height:model.settings.height-model.settings.coasterRim;for(let i=0;i<pos.count;i++){const z=(pos.getX(i)-slot.x)*slot.hookNormal[0]+(pos.getY(i)-slot.y)*slot.hookNormal[1]+(pos.getZ(i)-slot.z)*slot.hookNormal[2]+model.settings.height/2,k=1-Math.min(.45,Math.max(0,face-z)*.85);colour[i*3]=colour[i*3+1]=colour[i*3+2]=k;}geometry.setAttribute('color',new THREE.BufferAttribute(colour,3));cavityColours=true;}}const object=new THREE.Mesh(geometry,new THREE.MeshStandardMaterial({vertexColors:cavityColours,color:part.paletteRole?palette[part.paletteRole]:part.colour|| (part.role==='drawer-sheet'?(model.settings.sheetColour||'#68bfc7'):['reference-leaf','plant-stem','plant-trunk','plant-branch'].includes(part.role)?'#47674d':part.role==='plant-plate'?'#45433a':['pill-lid','drawer','inner-box','lid','screw-lid','storage-lid','home-lid','catch-tray','draining-platform','base-cover','cupboard-door','door-pull','door-splice'].includes(part.role)?palette.detail:palette.body),roughness:.85}));
    object.castShadow=smooth;object.receiveShadow=smooth;if(parts)object.position.set(part.x,part.y||0,0);else{object.position.fromArray(part.assembly);object.rotation.set(...part.rotation,part.rotationOrder||'XYZ');if(lidOpen&&['screw-lid','home-lid'].includes(part.role))object.position.z+=20;if(lidOpen&&part.role==='storage-lid'){object.position.x+=model.width+8;object.position.z+=10;}if(lidOpen&&part.role==='lid'){const angle=Math.PI/2,pivot=part.pivot[2],base=part.rotation[0];object.rotation.x=base+angle;object.position.y+=pivot*(Math.sin(base+angle)-Math.sin(base));object.position.z+=pivot*(Math.cos(base)-Math.cos(base+angle));}if(open&&['drawer','drawer-sheet','drawer-label'].includes(part.role))object.position.y-=model.depth*.4;}
    if(!parts&&lidOpen&&['pill-lid','pill-label'].includes(part.role)&&(pillDay==='all'||Number(pillDay)===part.pillDay)){if(part.pillHingePivot){const pivot=new THREE.Vector3(...part.pillHingePivot),axis=new THREE.Vector3(1,0,0),angle=-110*Math.PI/180;object.position.sub(pivot).applyAxisAngle(axis,angle).add(pivot);object.quaternion.premultiply(new THREE.Quaternion().setFromAxisAngle(axis,angle));}else object.position.z+=20;}
    if(!parts&&open&&part.doorPivot){const pivot=new THREE.Vector3(...part.doorPivot),axis=new THREE.Vector3(0,0,1),angle=part.doorSide*(part.doorOpening||model.cupboardFit?.opening||110)*Math.PI/180;object.position.sub(pivot).applyAxisAngle(axis,angle).add(pivot);object.quaternion.premultiply(new THREE.Quaternion().setFromAxisAngle(axis,angle));}

diff --git a/src/hooks/settings.js b/src/hooks/settings.js
@@ -1,3 +1,3 @@
 import {hookById}from'./catalogue.js';import{printerKey}from'../printer-settings.js';
-export const hookDefaults={kind:'hooks',printer:'a1-mini',designs:['walkies-pack'],height:76,reach:26,spacing:10,pitch:114,exportSet:'complete',colourMode:'separate',mount:'screws',layout:'rail',clearance:.3,label:'CHARLIE',palette:'sage',colours:['#71816a','#eee2c9','#b66b4c','#333d3a']};
-export function validateHooks(input,lookup=hookById){const p={...hookDefaults,...input};p.printer=printerKey(p);if(!Array.isArray(p.designs)||p.designs.length<1||p.designs.length>5||p.designs.some(id=>!lookup(id)))throw Error('Choose one to five available hooks.');for(const[key,min,max]of[['height',65,100],['reach',20,30],['spacing',8,30],['pitch',80,160],['clearance',.2,.5]])if(!Number.isFinite(p[key])||p[key]<min||p[key]>max)throw Error(`${key}: choose ${min}–${max} mm.`);if(!['complete','hooks','mounts'].includes(p.exportSet))throw Error('Choose complete set, hooks or mounts.');if(!['separate','ams','single'].includes(p.colourMode)||!['screws','pads'].includes(p.mount)||!['rail','individual'].includes(p.layout))throw Error('Choose available colour and mount options.');if(!Array.isArray(p.colours)||p.colours.length!==4||p.colours.some(c=>!/^#[0-9a-f]{6}$/i.test(c)))throw Error('Choose four valid colours.');if(typeof p.label!=='string'||/[\r\n]/.test(p.label)||[...p.label].length>12)throw Error('Use a name of up to 12 characters.');return p;}
+export const hookDefaults={kind:'hooks',printer:'a1-mini',designs:['walkies-pack'],height:76,reach:48,spacing:10,pitch:114,exportSet:'complete',colourMode:'separate',mount:'screws',layout:'rail',clearance:.3,label:'CHARLIE',palette:'sage',colours:['#71816a','#eee2c9','#b66b4c','#333d3a']};
+export function validateHooks(input,lookup=hookById){const p={...hookDefaults,...input};p.printer=printerKey(p);if(!Array.isArray(p.designs)||p.designs.length<1||p.designs.length>5||p.designs.some(id=>!lookup(id)))throw Error('Choose one to five available hooks.');for(const[key,min,max]of[['height',65,100],['reach',44,56],['spacing',8,30],['pitch',80,160],['clearance',.2,.5]])if(!Number.isFinite(p[key])||p[key]<min||p[key]>max)throw Error(`${key}: choose ${min}–${max} mm.`);if(!['complete','hooks','mounts'].includes(p.exportSet))throw Error('Choose complete set, hooks or mounts.');if(!['separate','ams','single'].includes(p.colourMode)||!['screws','pads'].includes(p.mount)||!['rail','individual'].includes(p.layout))throw Error('Choose available colour and mount options.');if(!Array.isArray(p.colours)||p.colours.length!==4||p.colours.some(c=>!/^#[0-9a-f]{6}$/i.test(c)))throw Error('Choose four valid colours.');if(typeof p.label!=='string'||/[\r\n]/.test(p.label)||[...p.label].length>12)throw Error('Use a name of up to 12 characters.');return p;}

diff --git a/docs/hooks-implementation.md b/docs/hooks-implementation.md
@@ -47,3 +47,9 @@ A continuous structural core carries hook loads. Decorative fitted inserts locat
 - AMS packing reserves a full side strip for its variable-depth prime tower. Wider parts rotate in XY with inverse preview transforms. Tower coordinates must repeat for every prepared plate.
 - Generic wall-mount-only and hook-only downloads retain excluded items as preview context. Non-AMS plates are separated by palette colour, including single-colour cores.
 - Coats use screws; adhesive-pad recesses are a lighter-item alternative.
+
+## Pets usability correction
+
+The original 20–30 mm projection left inadequate space between the character and hook tip. Hooks now default to 48 mm projection (44–56 mm control), with a deeper U-shaped cradle, broad root, tapered 11 mm rounded end and a release tab exposed 10 mm below the mount. Mechanical regression checks use a 10 mm hanging-loop insertion path and an 18 mm inside-diameter keyring at both character-height limits and minimum projection. These are geometry/access checks, not a load rating. Native slicing and desktop profile roundtrips cover both printer sizes and colour modes.
+
+The release leaf now anchors above the catch, leaving 23 mm of flexing length rather than the original 6.5 mm. Its narrower 6 mm blade clears the male dovetail instead of touching its edge.
